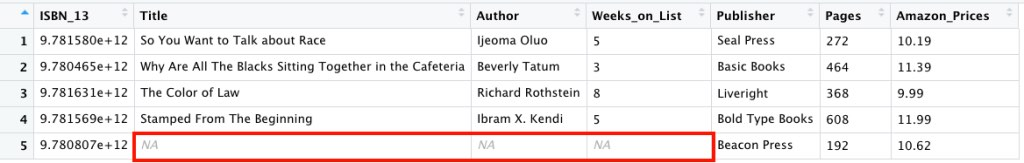
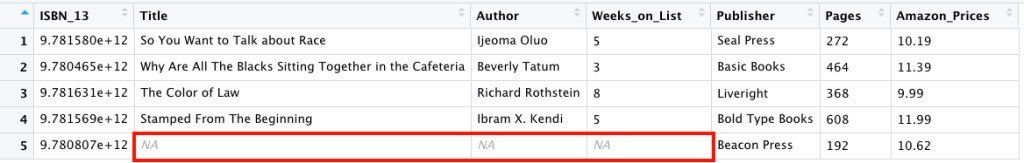
changed photo size on string manipulation post

Changed region(s): [[0.125, 0.7975, 0.6875, 0.8282]]

diff --git a/_posts/2020-07-16-relational-data-string-manipulation/string-relational-data.html b/_posts/2020-07-16-relational-data-string-manipulation/string-relational-data.html
@@ -1300,7 +1300,7 @@ code span.wa { color: #545454; font-weight: bold; font-style: italic; } /* Warni
 </div>
 </div>
 <div class="layout-chunk" data-layout="l-body">
-<p><img src="inner_join.jpg" width="120%" /></p>
+<p><img src="inner_join.jpg" width="100%" /></p>
 </div>
 <h2 id="outer-joins">Outer Joins</h2>
 <p>Outer joins keep values that appear in at least one of the data frames you’re combining. Any missing values will be filled in with “NA”. There are three types of outer joins:</p>
@@ -1322,7 +1322,7 @@ code span.wa { color: #545454; font-weight: bold; font-style: italic; } /* Warni
 </div>
 </div>
 <div class="layout-chunk" data-layout="l-body">
-<p><img src="left_join.jpg" width="120%" /></p>
+<p><img src="left_join.jpg" width="100%" /></p>
 </div>
 <h3 id="right-join">Right Join</h3>
 <p>A right join keeps values in the data frame to the right and drops the values from the data frame to the left that have no key match.</p>
@@ -1335,7 +1335,7 @@ code span.wa { color: #545454; font-weight: bold; font-style: italic; } /* Warni
 </div>
 </div>
 <div class="layout-chunk" data-layout="l-body">
-<p><img src="right-join.jpg" width="120%" /></p>
+<p><img src="right-join.jpg" width="100%" /></p>
 </div>
 <h2 id="full-join">Full Join</h2>
 <p>A full join keeps all observations from the data frames you’re joining. Again when there is no key match, values are dropped.</p>
@@ -1348,7 +1348,7 @@ code span.wa { color: #545454; font-weight: bold; font-style: italic; } /* Warni
 </div>
 </div>
 <div class="layout-chunk" data-layout="l-body">
-<p><img src="full_join.jpg" width="120%" /></p>
+<p><img src="full_join.jpg" width="100%" /></p>
 </div>
 <p>Whew! Okay I know that was a lot but just wanted to share. The more I do these posts the better I understand these important R and programming concepts. Until next time…</p>
 <div class="sourceCode" id="cb2"><pre class="sourceCode r distill-force-highlighting-css"><code class="sourceCode r"></code></pre></div>

diff --git a/docs/posts/2020-07-16-relational-data-string-manipulation/index.html b/docs/posts/2020-07-16-relational-data-string-manipulation/index.html
@@ -2252,7 +2252,7 @@ d-appendix d-footnote-list a.footnote-backlink {
 </div>
 </div>
 <div class="layout-chunk" data-layout="l-body">
-<p><img src="inner_join.jpg" width="120%" /></p>
+<p><img src="inner_join.jpg" width="100%" /></p>
 </div>
 <h2 id="outer-joins">Outer Joins</h2>
 <p>Outer joins keep values that appear in at least one of the data frames you’re combining. Any missing values will be filled in with “NA”. There are three types of outer joins:</p>
@@ -2274,7 +2274,7 @@ d-appendix d-footnote-list a.footnote-backlink {
 </div>
 </div>
 <div class="layout-chunk" data-layout="l-body">
-<p><img src="left_join.jpg" width="120%" /></p>
+<p><img src="left_join.jpg" width="100%" /></p>
 </div>
 <h3 id="right-join">Right Join</h3>
 <p>A right join keeps values in the data frame to the right and drops the values from the data frame to the left that have no key match.</p>
@@ -2287,7 +2287,7 @@ d-appendix d-footnote-list a.footnote-backlink {
 </div>
 </div>
 <div class="layout-chunk" data-layout="l-body">
-<p><img src="right-join.jpg" width="120%" /></p>
+<p><img src="right-join.jpg" width="100%" /></p>
 </div>
 <h2 id="full-join">Full Join</h2>
 <p>A full join keeps all observations from the data frames you’re joining. Again when there is no key match, values are dropped.</p>
@@ -2300,7 +2300,7 @@ d-appendix d-footnote-list a.footnote-backlink {
 </div>
 </div>
 <div class="layout-chunk" data-layout="l-body">
-<p><img src="full_join.jpg" width="120%" /></p>
+<p><img src="full_join.jpg" width="100%" /></p>
 </div>
 <p>Whew! Okay I know that was a lot but just wanted to share. The more I do these posts the better I understand these important R and programming concepts. Until next time…</p>
 <div class="sourceCode" id="cb2"><pre class="sourceCode r distill-force-highlighting-css"><code class="sourceCode r"></code></pre></div>
